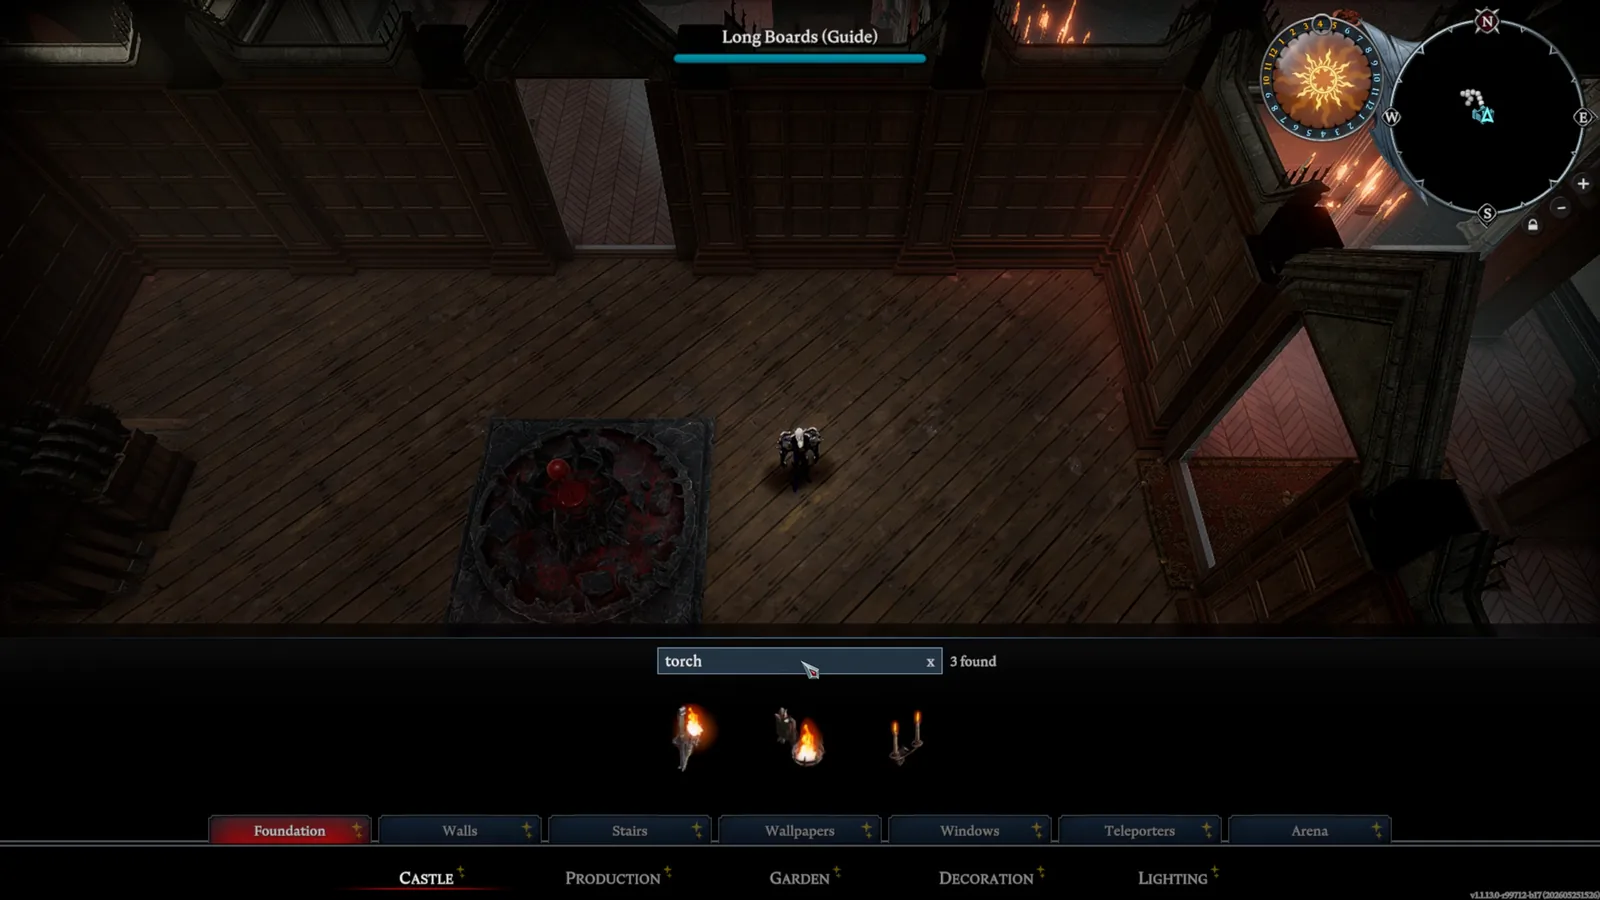
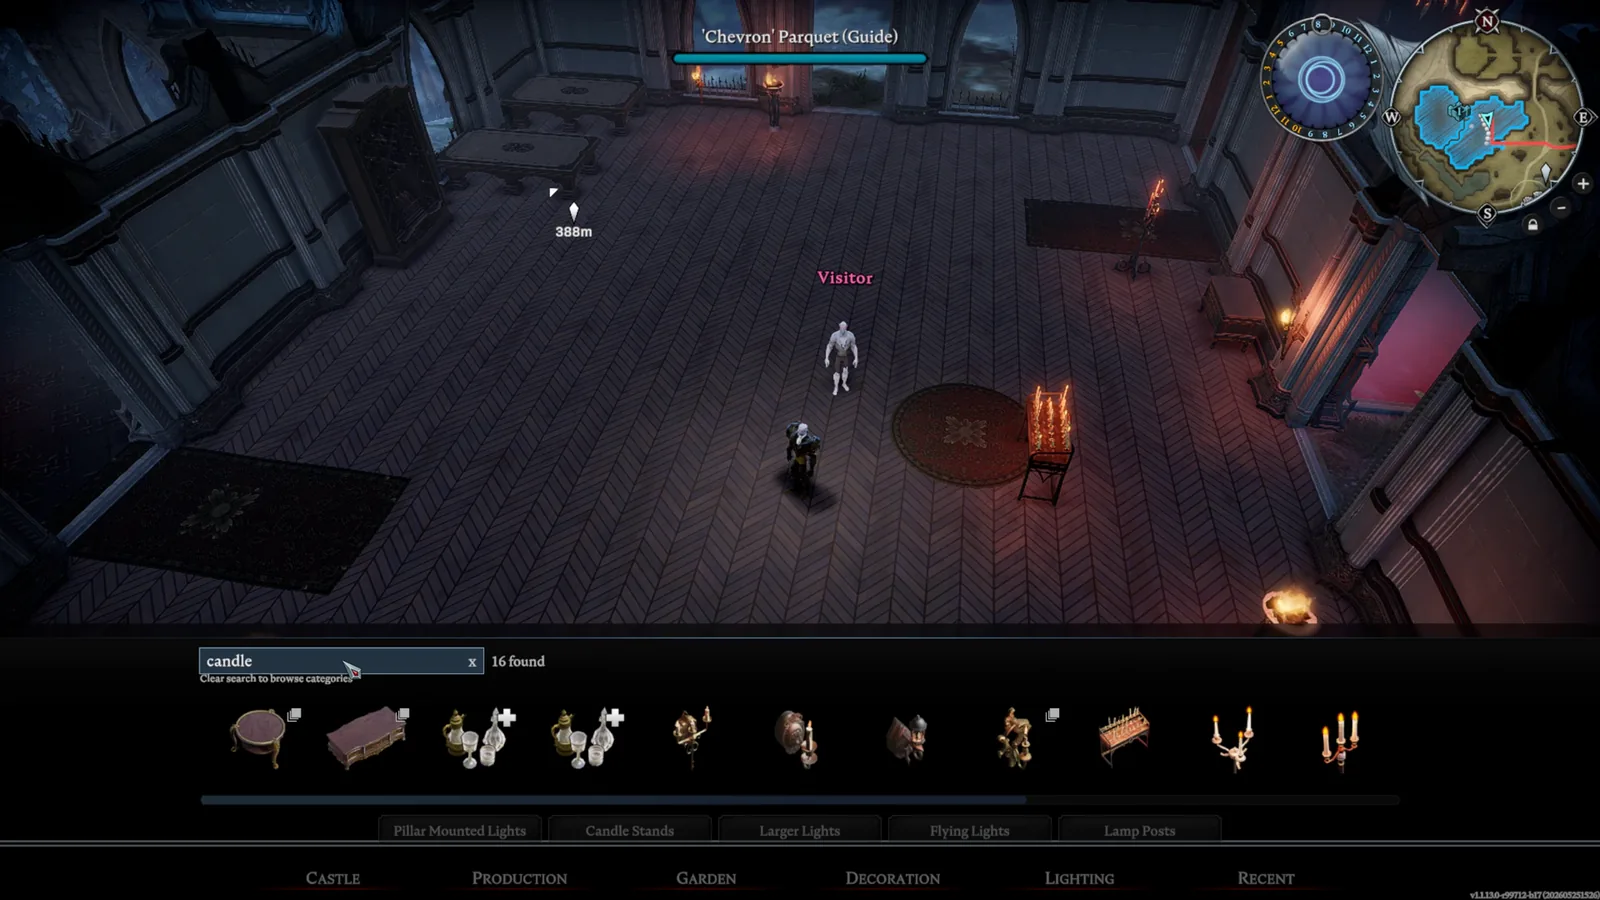
Help guide: new Build menu search screenshot
The build menu's search box moved; the screenshot now shows it in its
current place, filtered to candles.

diff --git a/docs/guide/progenitor-guide.html b/docs/guide/progenitor-guide.html
@@ -639,7 +639,7 @@ window.HELP = {
     /* ---------------- Players: In the game ---------------- */
     {
       id: "game", role: "players", title: "In the Game", pages: [
-        { id: "build-search", title: "Build menu search", shot: { src: "img/game-build-search.webp", alt: "The build menu filtered to torches by Search buildings", caption: "Typing <em>torch</em> keeps three buildings." },
+        { id: "build-search", title: "Build menu search", shot: { src: "img/game-build-search.webp", alt: "The build menu filtered to candles by Search buildings", caption: "Typing <em>candle</em> finds 16 buildings." },
           html: `<ul><li>The build menu gets a <strong>Search buildings</strong> box. Type to filter the current tab by name.</li>
 <li><span class="kbd">Enter</span> keeps the filter and returns to the game; <span class="kbd">Escape</span> or <strong>&times;</strong> clears it.</li>
 <li>Item tooltips show where to find the item in the menu.</li>
